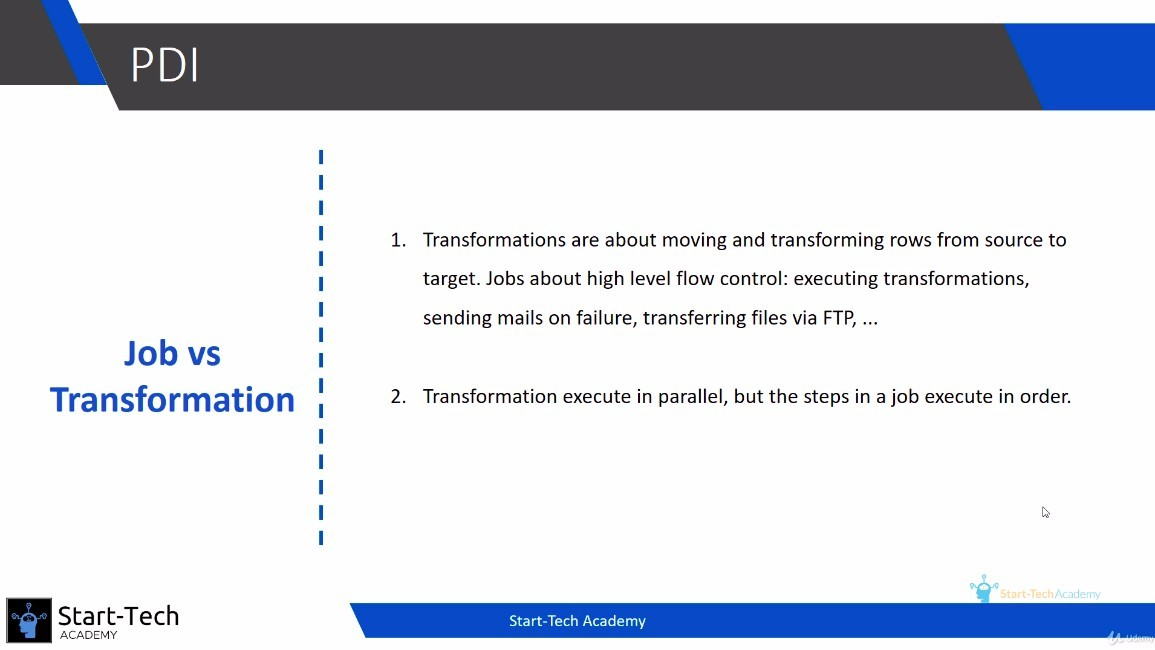
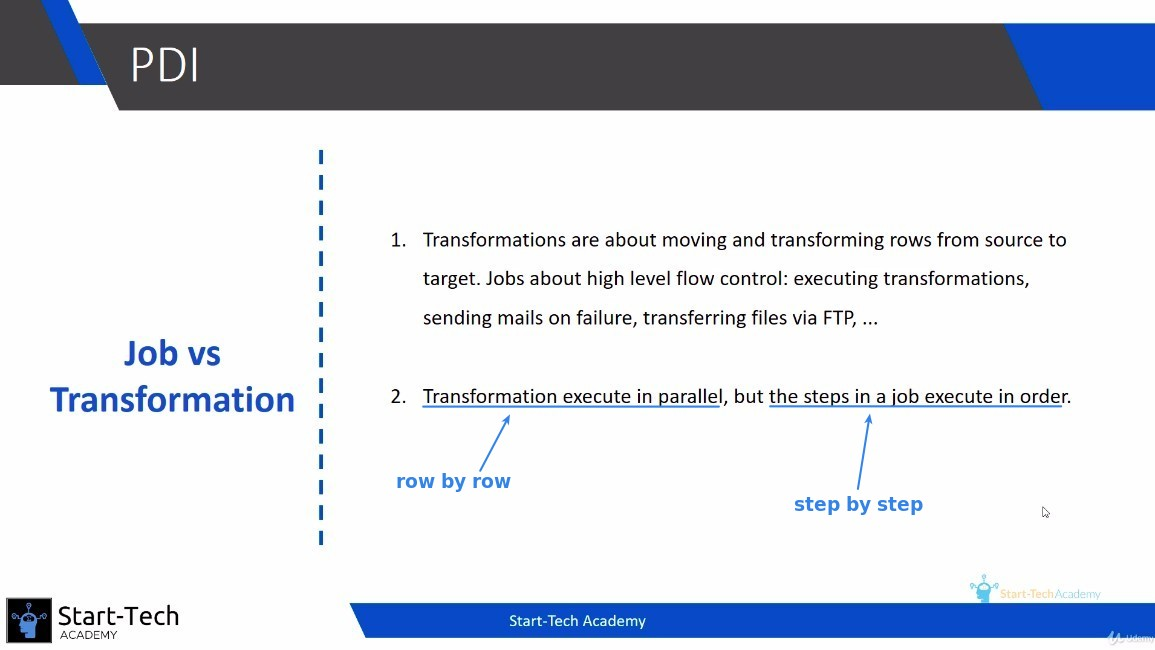
qq

diff --git a/19-job/65-control-flow-of-exe/memo.md b/19-job/65-control-flow-of-exe/memo.md
@@ -1,0 +1,21 @@
+## **Open New Job**
+
+![Alt new job](pic/01.jpg)
+
+## **Execution Order is important**
+
+![Alt the importance of execution order](pic/02.jpg)
+
+## **Start to build the Job**
+
+### _First step: Start_
+
+![Alt first step of job](pic/03.jpg)
+
+### _General: Transformation_
+
+![Alt general: transformation](pic/04.jpg)
+
+### _Explanation of connection symbols_
+
+![Alt connection symbol](pic/05.jpg)
